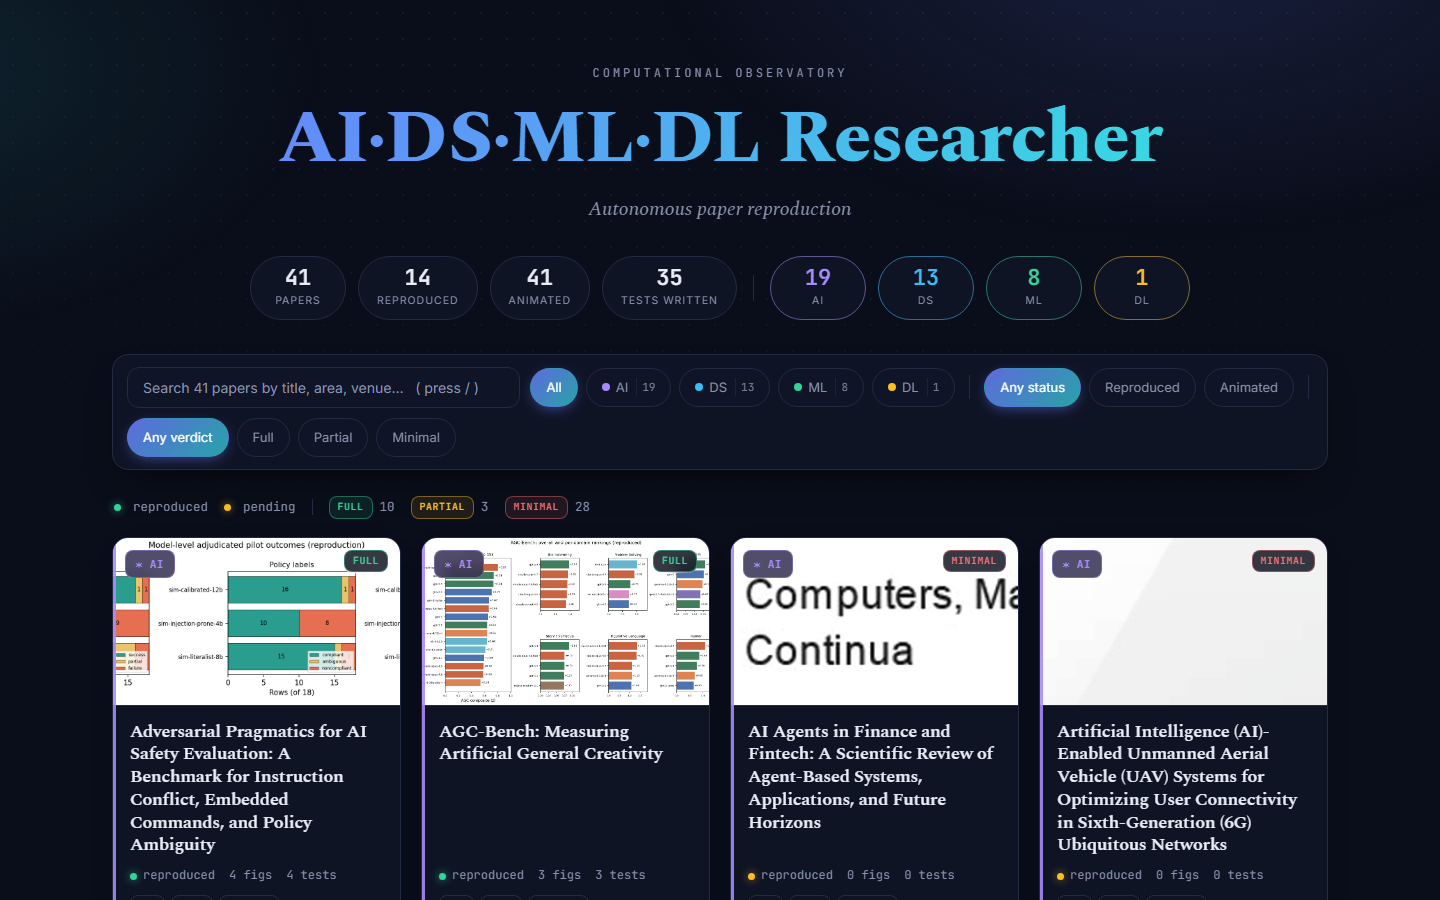
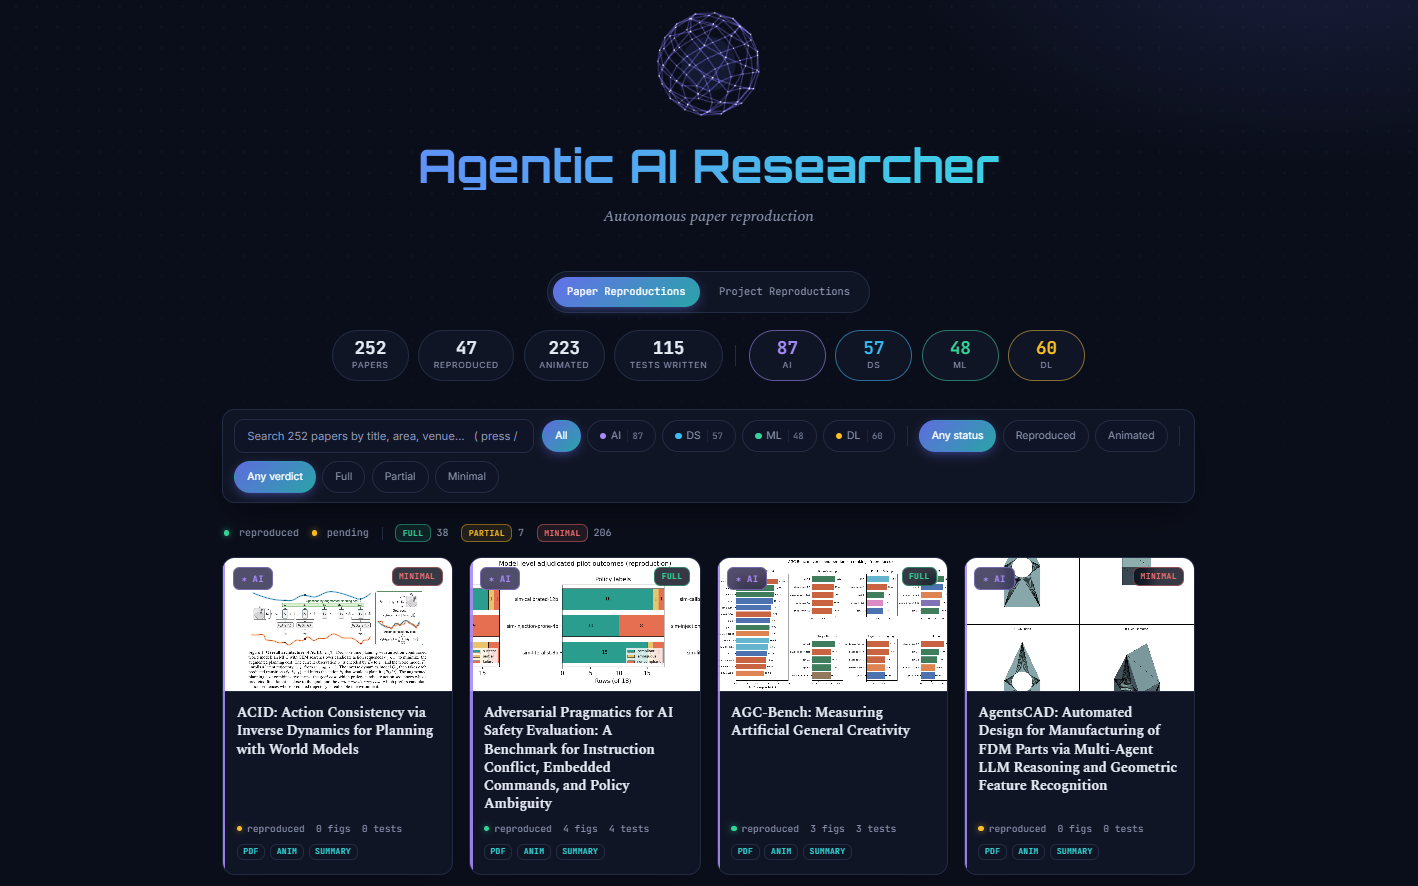
content: update Agentic Research Advisor thumbnail to the app landing screenshot
Replace figures/researcher.png with the current Agentic AI Researcher dashboard
(3D neural-mesh orb + branded title), cropped to 16:10. Refresh the card's alt
text and the stat line (41 papers / 14 reproduced -> 252 / 47) to match.

diff --git a/index.html b/index.html
@@ -256,8 +256,8 @@
         <li class="project">
           <div class="thumb">
             <img src="figures/researcher.png"
-                 alt="Screenshot: paper-reproduction dashboard as of July 2026 with 41 papers, 14 reproduced, searchable cards showing per-paper figures, tests, and full/partial/minimal verdicts."
-                 width="1440" height="900">
+                 alt="Screenshot: the Agentic AI Researcher dashboard — a 3D neural-mesh orb above the title, with 252 papers ingested, 47 reproduced, 223 animated, and searchable paper cards showing per-paper figures, tests, and full/partial/minimal verdicts."
+                 width="1418" height="886">
           </div>
           <div class="desc">
             <h3>Agentic Research Advisor</h3>
@@ -268,7 +268,7 @@
               <dt>Method</dt>
               <dd>A harness that treats on-disk artifacts as the only source of truth, scoring what each run actually produced rather than the agent&rsquo;s self-report &mdash; so incomplete runs and honest negatives become first-class outcomes.</dd>
               <dt>Result</dt>
-              <dd>A searchable reproduction dashboard; as of July&nbsp;2026, 41 papers ingested and 14 reproduced with full / partial / minimal verdicts backed by per-paper figures and tests.</dd>
+              <dd>A searchable reproduction dashboard; as of July&nbsp;2026, 252 papers ingested and 47 reproduced with full / partial / minimal verdicts backed by per-paper figures and tests.</dd>
             </dl>
             <p class="stack"><span class="stack-label">Stack</span> Python &middot; LLM agents &middot; pytest &middot; static dashboard</p>
             <p class="sublink"><a href="https://github.com/AmitAminov/agentic-research-advisor">Code on GitHub &rarr;</a></p>